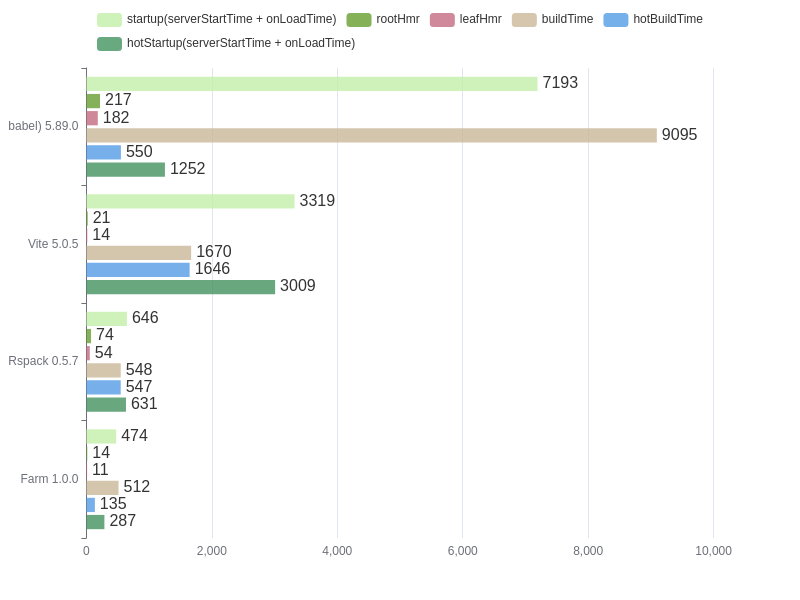
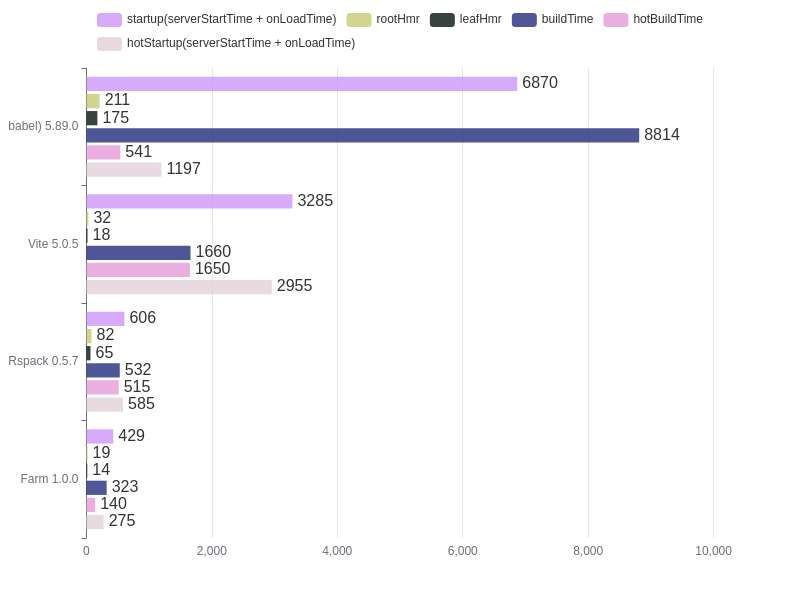
chore: add changeset check (#1066)
* chore: add changeset check

* chore: update changesets and lockfile

* fix: ci changeset check

* chore: changeset diff origin/main

* chore: fetch-depth 0

---------

diff --git a/packages/core/src/config/index.ts b/packages/core/src/config/index.ts
@@ -384,8 +384,6 @@ export async function normalizeUserCompilationConfig(
     config.define.FARM_HMR_PROTOCOL = userConfig.server.hmr.protocol;
 
     const defineHmrPath = normalizeBasePath(path.join(publicPath, hmrPath));
-    // for backward compatibility
-    config.define.FARM_HMR_BASE = defineHmrPath;
     config.define.FARM_HMR_PATH = defineHmrPath;
   }
 

diff --git a/.changeset/tiny-berries-compare.md b/.changeset/tiny-berries-compare.md
@@ -1,0 +1,2 @@
+---
+---
